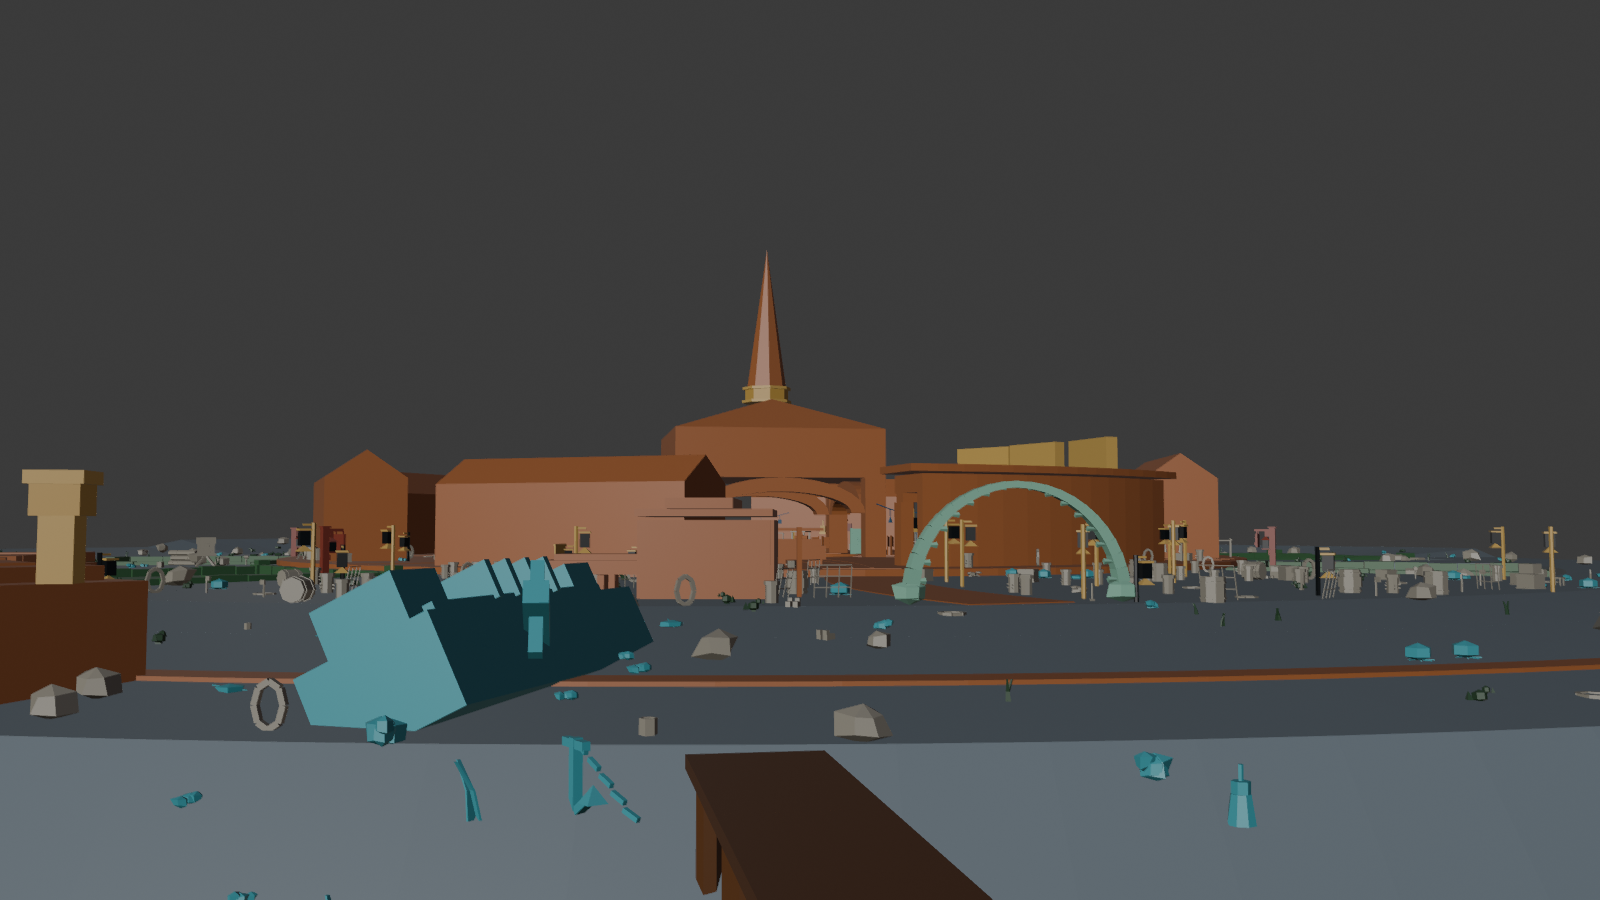
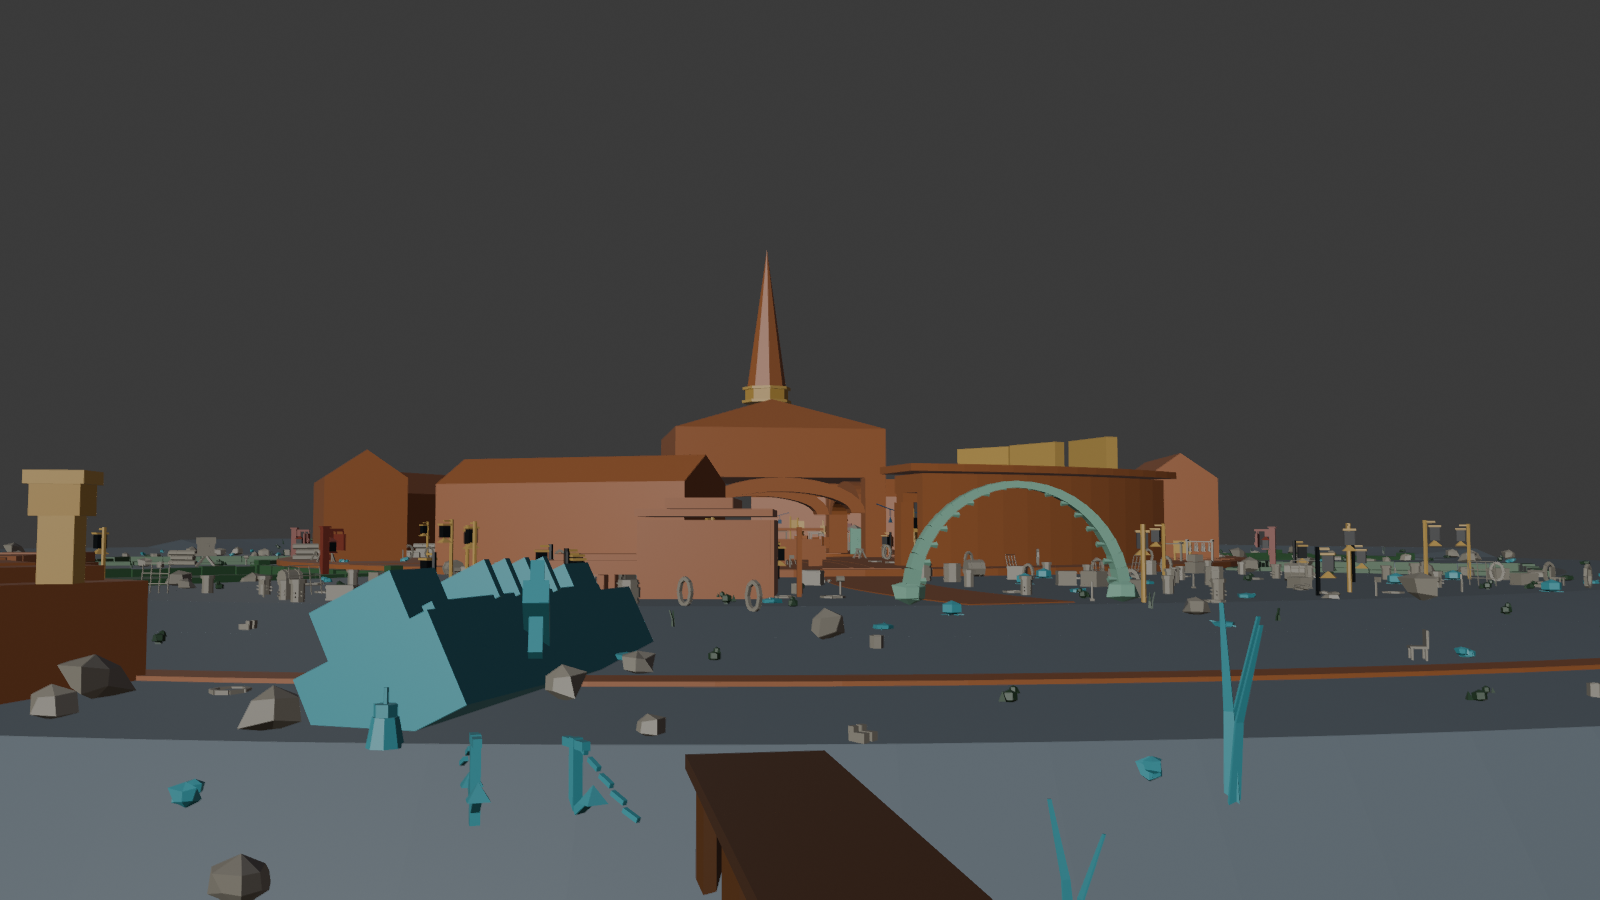
Fill the plaza: raise plaza_open and plaza_edge, and bias the open floor to props that read at distance
plaza_open 1.5 -> 7.0 and plaza_edge 6.0 -> 9.0, mirrored in CLAUDE.md.
Open-floor instances go 17 -> 65, plaza edge 62 -> 79. Scene at 99,754 tris,
validate.py still exits 0, zero props in lanes, zero floating.

Density alone did not fix it. At 4.0 the open zone was still reading bare,
because it drew from the same pool as everywhere else and a crate does not
register from 40 studs -- what a player sees across a square is the mid layer.
The open zone now weights toward assets that carry: lantern posts, market
stalls, wells, notice boards, drying racks, timber stacks, banner poles. The
floor at r 32..80 went from mostly crates and rope coils to LanternPost 11,
TimberStack 7, DryingRack 5, BannerPole 4, Rowboat 4, NoticeBoard 3. That also
serves the acceptance rule that any point on the plaza should have three
distinct points of interest in frame, which small ground clutter never could.
The brief puts the demountable stalls in the open square specifically, so
favouring them there follows it rather than bends it.

plaza_edge deliberately stays under district_core (9 vs 11). The gradient lane
-> edge -> core is what keeps clutter against the built mass and the walking
floor open; raising edge past core would invert the rule rather than tune it.

Plaza empty floor 92.9% -> 88.7%, still far above the 30% floor, so there is
headroom if this still reads thin.

Claude-Session: https://claude.ai/code/session_01FeoNTmbysWT7k1eNgrmMXH

diff --git a/src/p7b_scatter.py b/src/p7b_scatter.py
@@ -109,6 +109,17 @@ ZONE_PROPS = {
     "IslandRim": ["Rock"] * 2 + ["SeaGrass", "Heather", "Ballast", "Gull"],
 }
 
+# Assets that can carry open floor. Raising plaza_open's density alone did not
+# fix the square reading as bare, because the open zone drew mostly the same
+# small ground clutter as everywhere else and a crate does not register from 40
+# studs. These are the mid-layer shapes that do, and weighting them here is
+# what gives a player standing anywhere on the plaza three distinct points of
+# interest. The brief also puts the demountable stalls in the open square
+# specifically, so favouring them here follows it rather than bending it.
+OPEN_ZONE_ASSETS = {"MarketStall", "Well", "LanternPost", "NoticeBoard",
+                    "DryingRack", "TimberStack", "BannerPole", "Awning",
+                    "GuttingTable", "Rowboat", "SaltVat"}
+
 # props that read front-on: they keep a facing and only wobble around it
 ORIENTED = {"MarketStall", "NoticeBoard", "DryingRack", "TallyBoard", "Awning",
             "GuttingTable", "Well", "Rowboat", "BannerPole"}
@@ -340,6 +351,10 @@ def build():
         pool = [k for k in pool if k in kit]
         if not pool:
             continue
+        if zone == "plaza_open":
+            big = [k for k in pool if k in OPEN_ZONE_ASSETS]
+            if big:
+                pool = big * 3 + pool     # favour, without going exclusive
         asset = rng.choice(pool)
 
         variants = kit[asset]

diff --git a/src/config.py b/src/config.py
@@ -121,8 +121,14 @@ PLAZA_MIN_EMPTY    = 0.30    # >= 30% of plaza floor area stays clear
 # props per 1000 sq studs, by zone
 ZONE_DENSITY = {
     "traffic_lane":     0.0,
-    "plaza_open":       1.5,
-    "plaza_edge":       6.0,
+    # plaza_open 1.5 and plaza_edge 6.0 left the middle of the square reading
+    # as bare in the eye-level renders -- 17 and 62 props over 16.9k and 13.9k
+    # sq studs. Raised to 4.0 and 9.0. plaza_edge deliberately stays under
+    # district_core: the gradient lane -> edge -> core is what puts the clutter
+    # against the built mass and keeps the walking floor open, and inverting it
+    # would undo the rule rather than tune it.
+    "plaza_open":       7.0,
+    "plaza_edge":       9.0,
     "district_core":   11.0,
     "quay_rim":         9.0,
     "beach":            4.0,

diff --git a/CLAUDE.md b/CLAUDE.md
@@ -202,8 +202,8 @@ PLAZA_MIN_EMPTY    = 0.30    # >= 30% of plaza floor area stays clear
 # props per 1000 sq studs, by zone
 ZONE_DENSITY = {
     "traffic_lane":     0.0,
-    "plaza_open":       1.5,
-    "plaza_edge":       6.0,
+    "plaza_open":       7.0,
+    "plaza_edge":       9.0,
     "district_core":   11.0,
     "quay_rim":         9.0,
     "beach":            4.0,
